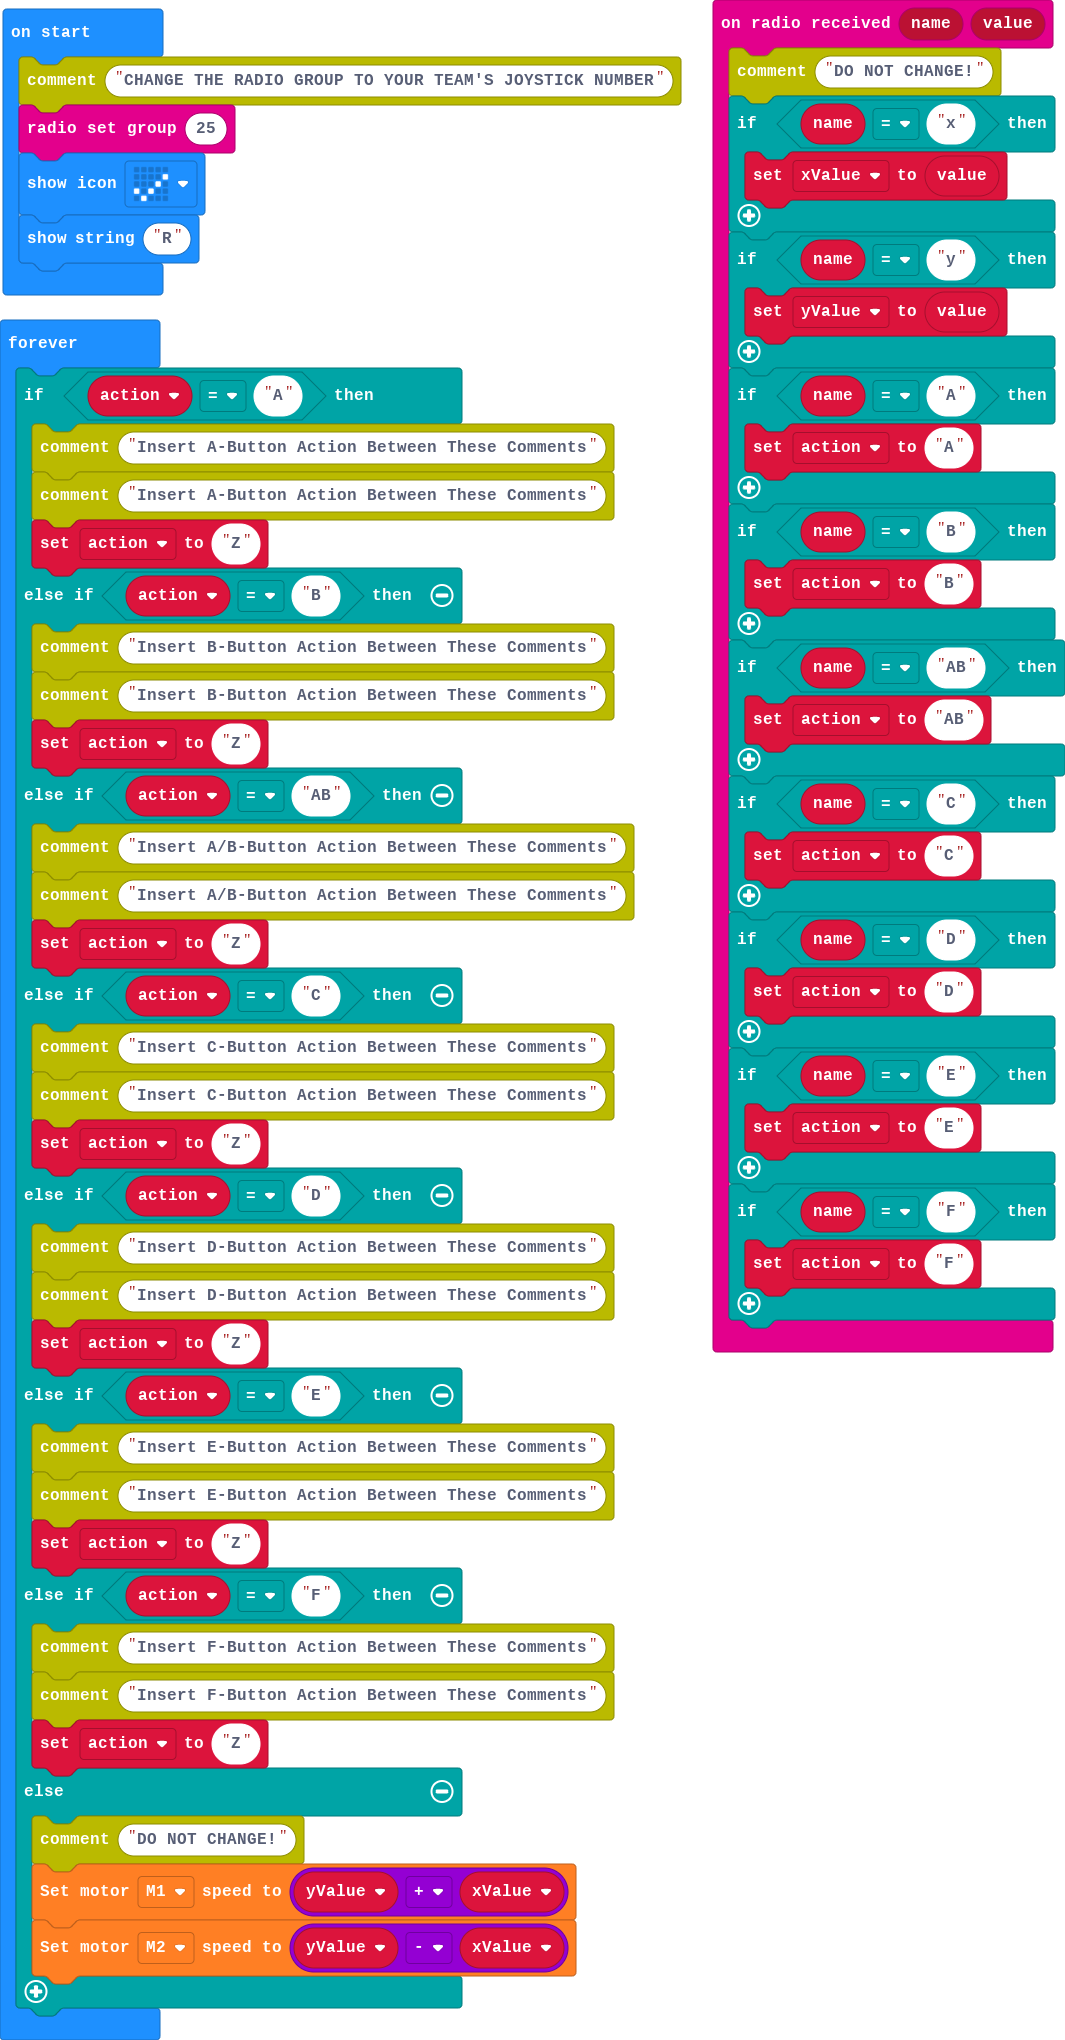
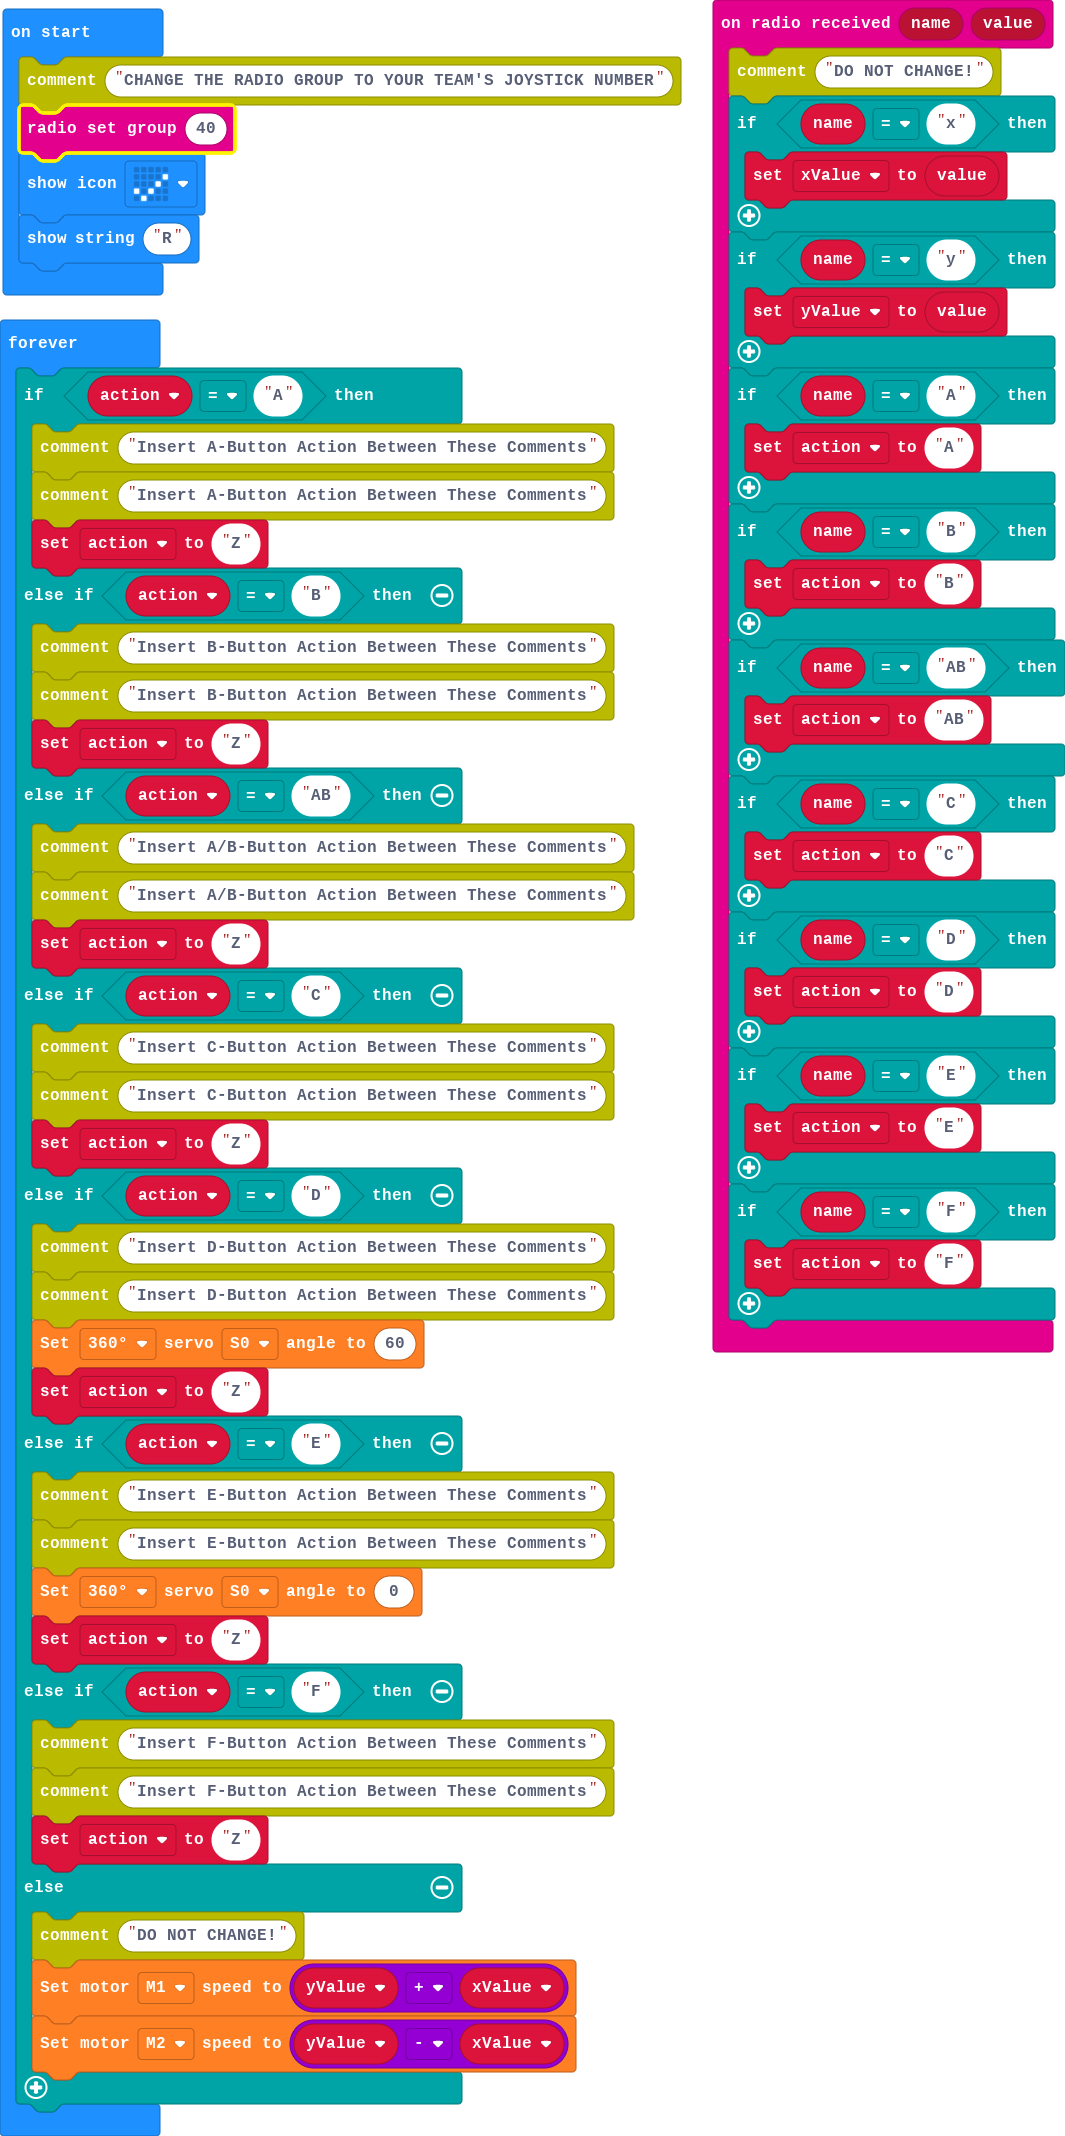
Update main.blocks, main.ts

diff --git a/main.ts b/main.ts
@@ -32,7 +32,7 @@ let action = ""
 let yValue = 0
 let xValue = 0
 comment.comment("CHANGE THE RADIO GROUP TO YOUR TEAM'S JOYSTICK NUMBER")
-radio.setGroup(25)
+radio.setGroup(40)
 basic.showIcon(IconNames.Yes)
 basic.showString("R")
 basic.forever(function () {
@@ -55,10 +55,12 @@ basic.forever(function () {
     } else if (action == "D") {
         comment.comment("Insert D-Button Action Between These Comments")
         comment.comment("Insert D-Button Action Between These Comments")
+        wuKong.setServoAngle(wuKong.ServoTypeList._360, wuKong.ServoList.S0, 60)
         action = "Z"
     } else if (action == "E") {
         comment.comment("Insert E-Button Action Between These Comments")
         comment.comment("Insert E-Button Action Between These Comments")
+        wuKong.setServoAngle(wuKong.ServoTypeList._360, wuKong.ServoList.S0, 0)
         action = "Z"
     } else if (action == "F") {
         comment.comment("Insert F-Button Action Between These Comments")
